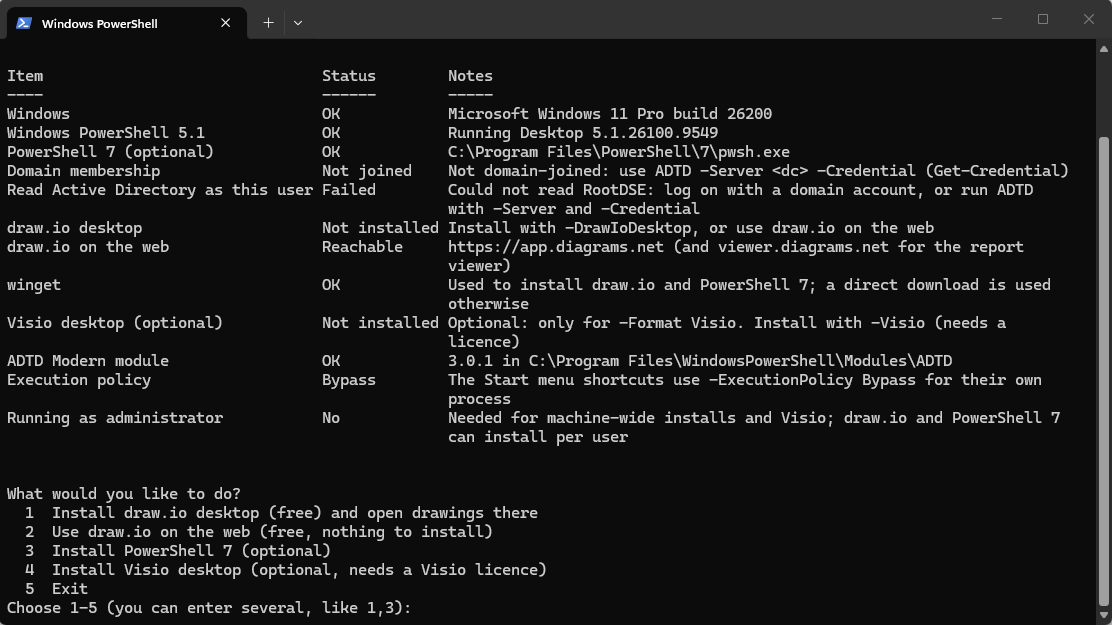
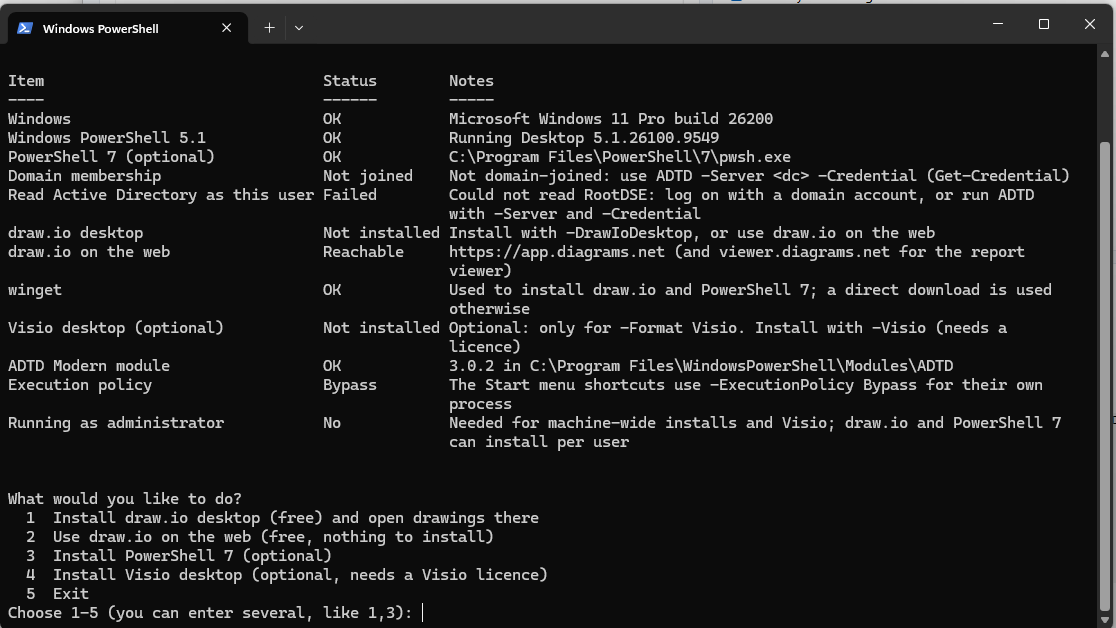
Docs: add the main window screenshot and the 3.0.2 prerequisites check

Changed region(s): [[0.0, 0.0, 1.0, 1.0], [0.0, 0.76, 0.4892, 1.0], [0.2752, 0.6688, 0.3058, 0.6992]]

diff --git a/README.md b/README.md
@@ -59,6 +59,8 @@ Invoke-ADTD -All -Format DrawIo, Html, HtmlTabs, Markdown, Csv, Json -Open
 
 ADTD Modern is a Windows app (`ADTD.exe`) with its own icon on the taskbar, Start menu and desktop. The window walks you through four steps:
 
+![ADTD Modern window](docs/images/app-window.png)
+
 | Step | What you do |
 |---|---|
 | **1 Connect to Active Directory** | Leave the domain empty for your own domain, or type a domain or DC. **Sign in as** your Windows account or **a different account** (user name and password right in the window, used for this run only). **Test connection** confirms which DC answered |

diff --git a/docs/USAGE.md b/docs/USAGE.md
@@ -4,6 +4,8 @@
 
 ## The window
 
+![ADTD Modern window](images/app-window.png)
+
 Open **Start → ADTD Modern** (or the desktop shortcut). The window has a header with **Prerequisites** and **About**, then four numbered steps:
 
 1. **Connect to Active Directory**
